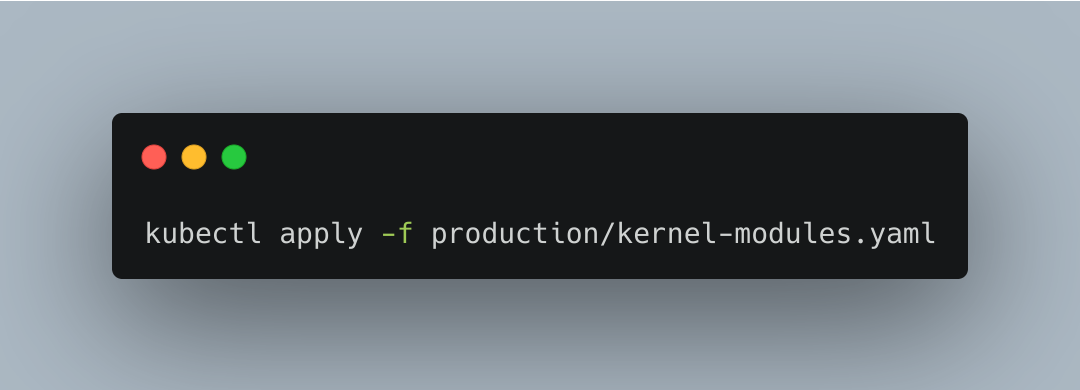
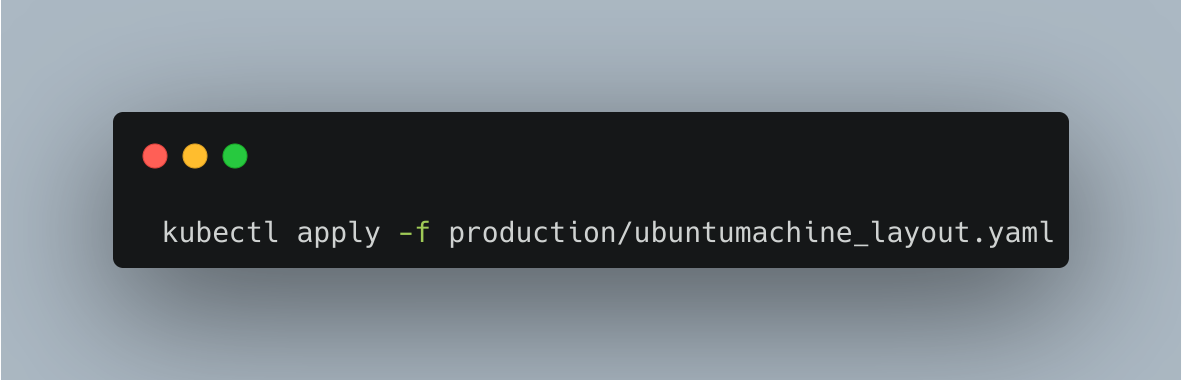
renamed to ubuntuMachines

Changed region(s): [[0.0917, 0.2895, 0.9167, 0.7237], [0.9778, 0.0, 1.0, 0.0289], [0.0, 0.0, 0.0306, 0.0289]]

diff --git a/api/v1alpha1/zz_generated.deepcopy.go b/api/v1alpha1/zz_generated.deepcopy.go
@@ -61,7 +61,7 @@ func (in *Node) DeepCopy() *Node {
 }
 
 // DeepCopyInto is an autogenerated deepcopy function, copying the receiver, writing into out. in must be non-nil.
-func (in *UbuntuKernelModule) DeepCopyInto(out *UbuntuKernelModule) {
+func (in *UbuntuMachineConfiguration) DeepCopyInto(out *UbuntuMachineConfiguration) {
 	*out = *in
 	out.TypeMeta = in.TypeMeta
 	in.ObjectMeta.DeepCopyInto(&out.ObjectMeta)
@@ -69,18 +69,18 @@ func (in *UbuntuKernelModule) DeepCopyInto(out *UbuntuKernelModule) {
 	in.Status.DeepCopyInto(&out.Status)
 }
 
-// DeepCopy is an autogenerated deepcopy function, copying the receiver, creating a new UbuntuKernelModule.
-func (in *UbuntuKernelModule) DeepCopy() *UbuntuKernelModule {
+// DeepCopy is an autogenerated deepcopy function, copying the receiver, creating a new UbuntuMachineConfiguration.
+func (in *UbuntuMachineConfiguration) DeepCopy() *UbuntuMachineConfiguration {
 	if in == nil {
 		return nil
 	}
-	out := new(UbuntuKernelModule)
+	out := new(UbuntuMachineConfiguration)
 	in.DeepCopyInto(out)
 	return out
 }
 
 // DeepCopyObject is an autogenerated deepcopy function, copying the receiver, creating a new runtime.Object.
-func (in *UbuntuKernelModule) DeepCopyObject() runtime.Object {
+func (in *UbuntuMachineConfiguration) DeepCopyObject() runtime.Object {
 	if c := in.DeepCopy(); c != nil {
 		return c
 	}
@@ -88,31 +88,31 @@ func (in *UbuntuKernelModule) DeepCopyObject() runtime.Object {
 }
 
 // DeepCopyInto is an autogenerated deepcopy function, copying the receiver, writing into out. in must be non-nil.
-func (in *UbuntuKernelModuleList) DeepCopyInto(out *UbuntuKernelModuleList) {
+func (in *UbuntuMachineConfigurationList) DeepCopyInto(out *UbuntuMachineConfigurationList) {
 	*out = *in
 	out.TypeMeta = in.TypeMeta
 	in.ListMeta.DeepCopyInto(&out.ListMeta)
 	if in.Items != nil {
 		in, out := &in.Items, &out.Items
-		*out = make([]UbuntuKernelModule, len(*in))
+		*out = make([]UbuntuMachineConfiguration, len(*in))
 		for i := range *in {
 			(*in)[i].DeepCopyInto(&(*out)[i])
 		}
 	}
 }
 
-// DeepCopy is an autogenerated deepcopy function, copying the receiver, creating a new UbuntuKernelModuleList.
-func (in *UbuntuKernelModuleList) DeepCopy() *UbuntuKernelModuleList {
+// DeepCopy is an autogenerated deepcopy function, copying the receiver, creating a new UbuntuMachineConfigurationList.
+func (in *UbuntuMachineConfigurationList) DeepCopy() *UbuntuMachineConfigurationList {
 	if in == nil {
 		return nil
 	}
-	out := new(UbuntuKernelModuleList)
+	out := new(UbuntuMachineConfigurationList)
 	in.DeepCopyInto(out)
 	return out
 }
 
 // DeepCopyObject is an autogenerated deepcopy function, copying the receiver, creating a new runtime.Object.
-func (in *UbuntuKernelModuleList) DeepCopyObject() runtime.Object {
+func (in *UbuntuMachineConfigurationList) DeepCopyObject() runtime.Object {
 	if c := in.DeepCopy(); c != nil {
 		return c
 	}
@@ -120,7 +120,7 @@ func (in *UbuntuKernelModuleList) DeepCopyObject() runtime.Object {
 }
 
 // DeepCopyInto is an autogenerated deepcopy function, copying the receiver, writing into out. in must be non-nil.
-func (in *UbuntuKernelModuleSpec) DeepCopyInto(out *UbuntuKernelModuleSpec) {
+func (in *UbuntuMachineSpec) DeepCopyInto(out *UbuntuMachineSpec) {
 	*out = *in
 	if in.DesiredModules != nil {
 		in, out := &in.DesiredModules, &out.DesiredModules
@@ -129,18 +129,18 @@ func (in *UbuntuKernelModuleSpec) DeepCopyInto(out *UbuntuKernelModuleSpec) {
 	}
 }
 
-// DeepCopy is an autogenerated deepcopy function, copying the receiver, creating a new UbuntuKernelModuleSpec.
-func (in *UbuntuKernelModuleSpec) DeepCopy() *UbuntuKernelModuleSpec {
+// DeepCopy is an autogenerated deepcopy function, copying the receiver, creating a new UbuntuMachineSpec.
+func (in *UbuntuMachineSpec) DeepCopy() *UbuntuMachineSpec {
 	if in == nil {
 		return nil
 	}
-	out := new(UbuntuKernelModuleSpec)
+	out := new(UbuntuMachineSpec)
 	in.DeepCopyInto(out)
 	return out
 }
 
 // DeepCopyInto is an autogenerated deepcopy function, copying the receiver, writing into out. in must be non-nil.
-func (in *UbuntuKernelModuleStatus) DeepCopyInto(out *UbuntuKernelModuleStatus) {
+func (in *UbuntuMachineStatus) DeepCopyInto(out *UbuntuMachineStatus) {
 	*out = *in
 	if in.Nodes != nil {
 		in, out := &in.Nodes, &out.Nodes
@@ -151,12 +151,12 @@ func (in *UbuntuKernelModuleStatus) DeepCopyInto(out *UbuntuKernelModuleStatus) 
 	}
 }
 
-// DeepCopy is an autogenerated deepcopy function, copying the receiver, creating a new UbuntuKernelModuleStatus.
-func (in *UbuntuKernelModuleStatus) DeepCopy() *UbuntuKernelModuleStatus {
+// DeepCopy is an autogenerated deepcopy function, copying the receiver, creating a new UbuntuMachineStatus.
+func (in *UbuntuMachineStatus) DeepCopy() *UbuntuMachineStatus {
 	if in == nil {
 		return nil
 	}
-	out := new(UbuntuKernelModuleStatus)
+	out := new(UbuntuMachineStatus)
 	in.DeepCopyInto(out)
 	return out
 }

diff --git a/controllers/ubuntumachine_controller.go b/controllers/ubuntumachine_controller.go
@@ -41,31 +41,31 @@ import (
 	"sigs.k8s.io/controller-runtime/pkg/source"
 )
 
-// UbuntuKernelModuleReconciler reconciles a UbuntuKernelModule object
-type UbuntuKernelModuleReconciler struct {
+// UbuntuMachineReconciler reconciles a UbuntuMachine object
+type UbuntuMachineReconciler struct {
 	client.Client
 	Scheme *runtime.Scheme
 }
 
-//+kubebuilder:rbac:groups=ubuntu.machinery.io.canonical.com,resources=ubuntukernelmodules,verbs=get;list;watch;create;update;patch;delete
-//+kubebuilder:rbac:groups=ubuntu.machinery.io.canonical.com,resources=ubuntukernelmodules/status,verbs=get;update;patch;create;delete
-//+kubebuilder:rbac:groups=ubuntu.machinery.io.canonical.com,resources=ubuntukernelmodules/finalizers,verbs=patch;create;update;delete
+//+kubebuilder:rbac:groups=ubuntu.machinery.io.canonical.com,resources=ubuntumachines,verbs=get;list;watch;create;update;patch;delete
+//+kubebuilder:rbac:groups=ubuntu.machinery.io.canonical.com,resources=ubuntumachines/status,verbs=get;update;patch;create;delete
+//+kubebuilder:rbac:groups=ubuntu.machinery.io.canonical.com,resources=ubuntumachines/finalizers,verbs=patch;create;update;delete
 //+kubebuilder:rbac:groups=apps,resources=daemonsets,verbs=get;list;watch;create;update;patch;delete
 
 // Reconcile is part of the main kubernetes reconciliation loop which aims to
 // move the current state of the cluster closer to the desired state.
 // TODO(user): Modify the Reconcile function to compare the state specified by
-// the UbuntuKernelModule object against the actual cluster state, and then
+// the UbuntuMachine object against the actual cluster state, and then
 // perform operations to make the cluster state reflect the state specified by
 // the user.
 //
 // For more details, check Reconcile and its Result here:
 // - https://pkg.go.dev/sigs.k8s.io/controller-runtime@v0.11.0/pkg/reconcile
 
-func (r *UbuntuKernelModuleReconciler) Reconcile(ctx context.Context, req ctrl.Request) (ctrl.Result, error) {
+func (r *UbuntuMachineReconciler) Reconcile(ctx context.Context, req ctrl.Request) (ctrl.Result, error) {
 	_ = log.FromContext(ctx)
 
-	instance := &v1alpha1.UbuntuKernelModule{}
+	instance := &v1alpha1.UbuntuMachineConfiguration{}
 	err := r.Get(context.TODO(), req.NamespacedName, instance)
 	if err != nil {
 		if errors.IsNotFound(err) {
@@ -127,7 +127,7 @@ func (r *UbuntuKernelModuleReconciler) Reconcile(ctx context.Context, req ctrl.R
 							},
 							ImagePullPolicy: corev1.PullAlways,
 							Name:            "controller",
-							Image:           "tibbar/ubuntu-kernel-module-controller:latest",
+							Image:           "tibbar/ubuntu-machine-controller:latest",
 							SecurityContext: &corev1.SecurityContext{
 								Privileged: &[]bool{true}[0],
 								Capabilities: &corev1.Capabilities{
@@ -206,12 +206,12 @@ func (r *UbuntuKernelModuleReconciler) Reconcile(ctx context.Context, req ctrl.R
 }
 
 // SetupWithManager sets up the controller with the Manager.
-func (r *UbuntuKernelModuleReconciler) SetupWithManager(mgr ctrl.Manager) error {
+func (r *UbuntuMachineReconciler) SetupWithManager(mgr ctrl.Manager) error {
 	return ctrl.NewControllerManagedBy(mgr).
-		For(&ubuntumachineryiov1alpha1.UbuntuKernelModule{}).Watches(&source.Kind{Type: &appsv1.DaemonSet{}},
+		For(&ubuntumachineryiov1alpha1.UbuntuMachineConfiguration{}).Watches(&source.Kind{Type: &appsv1.DaemonSet{}},
 		&handler.EnqueueRequestForOwner{
 			IsController: true,
-			OwnerType:    &v1alpha1.UbuntuKernelModule{},
+			OwnerType:    &v1alpha1.UbuntuMachineConfiguration{},
 		}).
 		Complete(r)
 }

diff --git a/daemonset/main.go b/daemonset/main.go
@@ -54,8 +54,8 @@ var (
 
 func addKnownTypes(scheme *runtime.Scheme) error {
 	scheme.AddKnownTypes(SchemeGroupVersion,
-		&v1alpha1.UbuntuKernelModuleList{},
-		&v1alpha1.UbuntuKernelModule{})
+		&v1alpha1.UbuntuMachineConfigurationList{},
+		&v1alpha1.UbuntuMachineConfiguration{})
 
 	mv1.AddToGroupVersion(scheme, SchemeGroupVersion)
 	return nil
@@ -82,9 +82,9 @@ func buildClient(config *rest.Config) *rest.RESTClient {
 	return client
 }
 
-func fetchUbuntuKernelModuleCR(restClient *rest.RESTClient) (v1alpha1.UbuntuKernelModuleList, error) {
-	result := v1alpha1.UbuntuKernelModuleList{}
-	err := restClient.Get().Resource("ubuntukernelmodules").Do(context.TODO()).Into(&result)
+func fetchUbuntuMachineCR(restClient *rest.RESTClient) (v1alpha1.UbuntuMachineConfigurationList, error) {
+	result := v1alpha1.UbuntuMachineConfigurationList{}
+	err := restClient.Get().Resource("UbuntuMachines").Do(context.TODO()).Into(&result)
 
 	return result, err
 }
@@ -146,14 +146,14 @@ func main() {
 		}
 		defer c.Close()
 		// // Check that the CR exists before we start polling
-		// li, err := fetchUbuntuKernelModuleCR(restClient)
+		// li, err := fetchUbuntuMachineCR(restClient)
 		// if err != nil || len(li.Items) == 0 {
-		// 	log.Warningf("No UbuntuKernelModule CR found. Waiting for it to be created.")
+		// 	log.Warningf("No UbuntuMachine CR found. Waiting for it to be created.")
 		// 	continue
 		// }
 		// TODO:
 		//
-		// Currently the architecture is for a single UbuntuKernelModule CR.
+		// Currently the architecture is for a single UbuntuMachine CR.
 		// This may need to change in the future
 		//
 		sendMessage := RelayMessage{
@@ -196,9 +196,9 @@ func main() {
 			log.Printf("Response recieved \n")
 
 			// Write back the changes
-			li, err := fetchUbuntuKernelModuleCR(restClient)
+			li, err := fetchUbuntuMachineCR(restClient)
 			if err != nil || len(li.Items) == 0 {
-				log.Printf("No UbuntuKernelModule CR found. Waiting for it to be created.")
+				log.Printf("No UbuntuMachine CR found. Waiting for it to be created.")
 				time.Sleep(time.Second * 30)
 				continue
 			}
@@ -225,20 +225,20 @@ func main() {
 			// Update resource version ----------------------------------------------------------------
 			kernelModuleCR.Annotations = map[string]string{}
 			// ----------------------------------------------------------------------------------------
-			log.Println("Updating ubuntuKernelModule CR")
-			result := v1alpha1.UbuntuKernelModule{}
+			log.Println("Updating UbuntuMachine CR")
+			result := v1alpha1.UbuntuMachineConfiguration{}
 			err = restClient.
 				Put().
 				Namespace(kernelModuleCR.ObjectMeta.Namespace).
 				Name(kernelModuleCR.ObjectMeta.Name).
-				Resource("UbuntuKernelModules").
+				Resource("UbuntuMachines").
 				Body(&kernelModuleCR).
 				SubResource("status").
 				Do(context.TODO()).
 				Into(&result)
 
 			if err != nil {
-				log.Errorf("Error updating UbuntuKernelModule CR: %s", err.Error())
+				log.Errorf("Error updating UbuntuMachine CR: %s", err.Error())
 				continue
 			}
 

diff --git a/api/v1alpha1/ubuntumachineconfiguration_types.go b/api/v1alpha1/ubuntumachineconfiguration_types.go
@@ -23,7 +23,7 @@ import (
 // EDIT THIS FILE!  THIS IS SCAFFOLDING FOR YOU TO OWN!
 // NOTE: json tags are required.  Any new fields you add must have json tags for the fields to be serialized.
 
-type UbuntuKernelModuleSpec struct {
+type UbuntuMachineSpec struct {
 	DesiredModules []Module `json:"desiredModules"`
 }
 
@@ -39,8 +39,8 @@ type Module struct {
 	Size   string `json:"size,omitempty"`
 }
 
-// UbuntuKernelModuleStatus defines the observed state of UbuntuKernelModule
-type UbuntuKernelModuleStatus struct {
+// UbuntuMachineStatus defines the observed state of UbuntuMachine
+type UbuntuMachineStatus struct {
 	Nodes []Node `json:"nodes"`
 }
 
@@ -48,24 +48,24 @@ type UbuntuKernelModuleStatus struct {
 // +kubebuilder:object:root=true
 
 //+kubebuilder:subresource:status
-// UbuntuKernelModule is the Schema for the ubuntukernelmodules API
-type UbuntuKernelModule struct {
+// UbuntuMachineConfiguration is the Schema for the ubuntumachines API
+type UbuntuMachineConfiguration struct {
 	metav1.TypeMeta   `json:",inline"`
 	metav1.ObjectMeta `json:"metadata,omitempty"`
 
-	Spec   UbuntuKernelModuleSpec   `json:"spec,omitempty"`
-	Status UbuntuKernelModuleStatus `json:"status,omitempty"`
+	Spec   UbuntuMachineSpec   `json:"spec,omitempty"`
+	Status UbuntuMachineStatus `json:"status,omitempty"`
 }
 
 //+kubebuilder:object:root=true
 
-// UbuntuKernelModuleList contains a list of UbuntuKernelModule
-type UbuntuKernelModuleList struct {
+// UbuntuMachineConfigurationList contains a list of UbuntuMachine
+type UbuntuMachineConfigurationList struct {
 	metav1.TypeMeta `json:",inline"`
 	metav1.ListMeta `json:"metadata,omitempty"`
-	Items           []UbuntuKernelModule `json:"items"`
+	Items           []UbuntuMachineConfiguration `json:"items"`
 }
 
 func init() {
-	SchemeBuilder.Register(&UbuntuKernelModule{}, &UbuntuKernelModuleList{})
+	SchemeBuilder.Register(&UbuntuMachineConfiguration{}, &UbuntuMachineConfigurationList{})
 }

diff --git a/main.go b/main.go
@@ -79,11 +79,11 @@ func main() {
 		os.Exit(1)
 	}
 
-	if err = (&controllers.UbuntuKernelModuleReconciler{
+	if err = (&controllers.UbuntuMachineReconciler{
 		Client: mgr.GetClient(),
 		Scheme: mgr.GetScheme(),
 	}).SetupWithManager(mgr); err != nil {
-		setupLog.Error(err, "unable to create controller", "controller", "UbuntuKernelModule")
+		setupLog.Error(err, "unable to create controller", "controller", "UbuntuMachine")
 		os.Exit(1)
 	}
 

diff --git a/README.md b/README.md
@@ -6,9 +6,9 @@
 
 ```
 apiVersion: ubuntu.machinery.io.canonical.com/v1alpha1
-kind: UbuntuKernelModule
+kind: UbuntuMachine
 metadata:
-  name: ubuntukernelmodule-sample
+  name: UbuntuMachine-sample
 spec:
   desiredModules:
   - "nvme"
